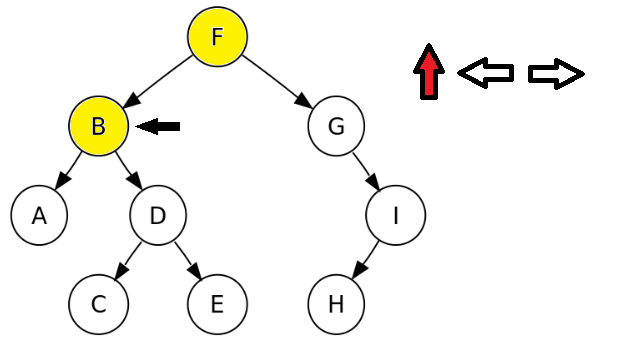
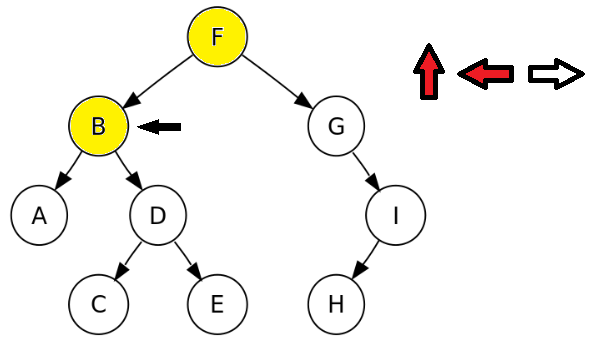
trabajando en el gif de preorden

diff --git a/TiposAbstractosYEstructurasDeDatos/TiposAbstractosYEstructurasDeDatos.html b/TiposAbstractosYEstructurasDeDatos/TiposAbstractosYEstructurasDeDatos.html
@@ -123,6 +123,11 @@
 					<img src="../imagenes/preorden/preorden-11.png" >
 					<img src="../imagenes/preorden/preorden-12.png" >
 					<img src="../imagenes/preorden/preorden-13.png" >
+					<img src="../imagenes/preorden/preorden-14.png" >
+					<img src="../imagenes/preorden/preorden-15.png" >
+					<img src="../imagenes/preorden/preorden-16.png" >
+					<img src="../imagenes/preorden/preorden-17.png" >
+					<img src="../imagenes/preorden/preorden-18.png" >
 				</div>
 			</div>
 		</li>
